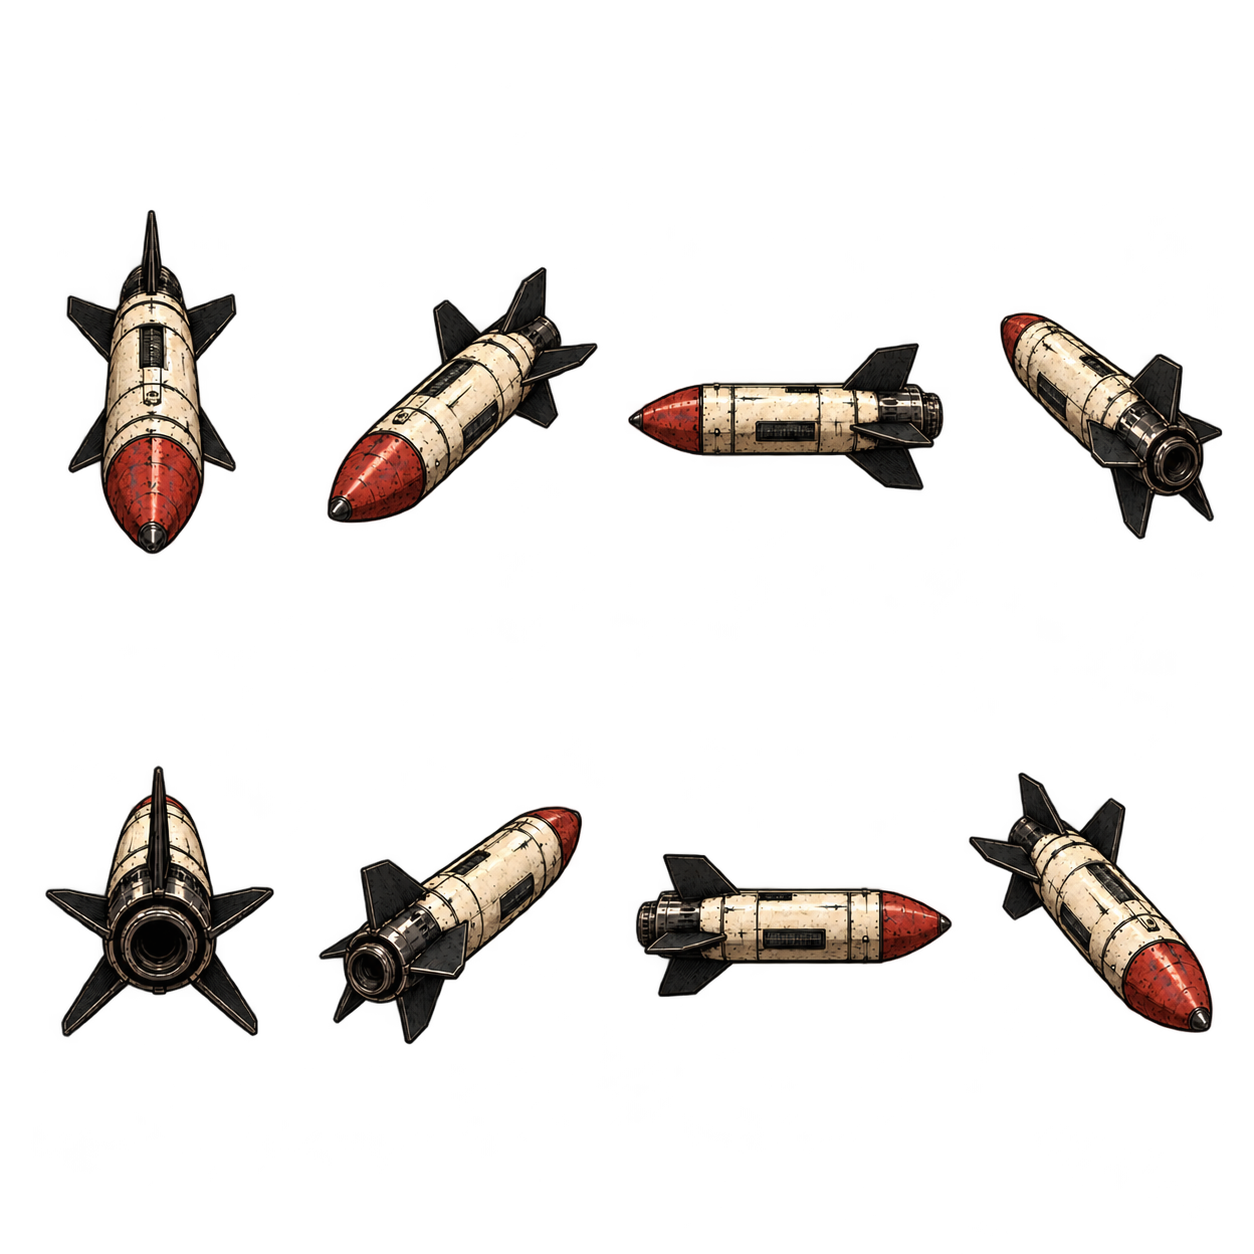
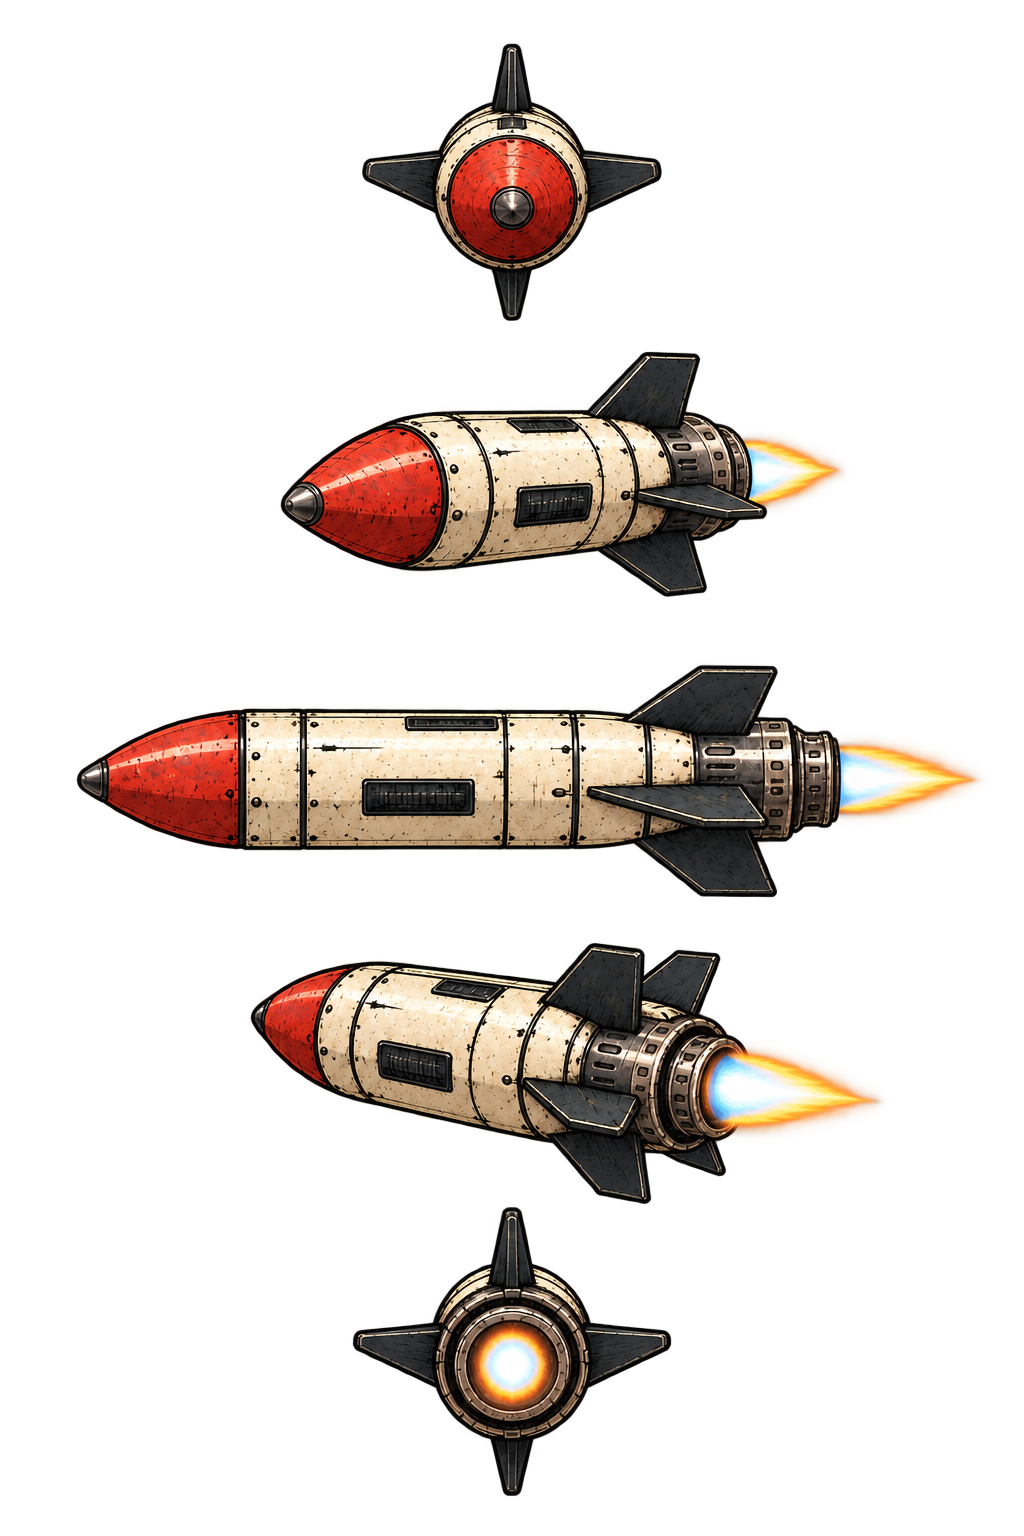
Refresh torpedo sprites with five mirrored facings and baked exhaust

diff --git a/docs/torpedo-sprites.md b/docs/torpedo-sprites.md
@@ -1,0 +1,27 @@
+# Torpedo sprite draft — 23 October 2026
+
+The combat missile uses five near-level drawings: bow, port bow, port, port stern and stern. The remaining three bearings reuse the port rectangles with `mirror_x`. Both the canonical `base.combat-missile` material and the adjacent `missile.sprite.json` describe all eight bearings. Forward vectors describe the displayed nose direction, including the mirrored X direction, because the current velocity-alignment renderer consumes them directly.
+
+The atlas includes a static blue-white/amber exhaust flame; the bow view hides it behind the hull and the stern view shows it end-on. The existing smoke trail and projected-velocity rotation remain. This is an artwork iteration, without new pitch selection, roll simulation, emission maps or exhaust animation. Pivots follow the hull rather than the flame; render scale 1 keeps the broadside hull close to its previous displayed length (about 2.5 metres).
+
+Generated with the built-in image tool, using the previous atlas as the design reference and a first draft as the final edit input. The selected transparent PNG is `content/base/assets/combat/missile-atlas.png`. No programmatic recolouring or background removal was applied.
+
+## Verification
+
+The native production packager accepted the sprite update over the existing bundled base pack. The current verifier accepted that result together with the bundled Test Missions pack: 35 entities, eight maps and 20 consoles. Sprite metadata and this note pass the repository Prettier configuration. The PNG has an alpha channel and the five source regions were inspected. No in-game visual acceptance is claimed; this draft is for the user's flight review.
+
+The full working-tree repack encountered an unrelated `scenario: invalid transition event binding` in concurrent scenario work. The local preview therefore updates only the missile in the existing native bundle, with its previous archive retained at `build/torpedo-preview/base-before-sprites.zip`. Source definitions retain the same missile update for the next full build.
+
+## Final generation prompt
+
+```text
+Use case: precise-object-edit. Edit this fictional spaceship game's torpedo sprite atlas. Keep the cream/red/black inked-comic design and five-view vertical layout, but correct two specific things: true end-on front/back geometry and BAKED-IN ENGINE EXHAUST. This is an isolated nonviolent fictional game asset, no action, targets, people, injury, explosions or real construction information.
+Canvas 1024 x 1536, real transparent background. Exactly FIVE sprites, each centered within one equal-height horizontal cell, with generous completely empty transparent gutters. Entire engine flame must fit inside its own cell. Fixed identical physical scale across all views, same hull and FOUR fins, consistent dimensions. Neutral lighting for horizontal mirroring. No background glow, shadows, labels, text or extra views.
+Camera is now EXACTLY LEVEL with the horizontal torpedo axis, ZERO elevation; NOT an overhead view. Top to bottom:
+1. TRUE FRONT END-ON: camera sits precisely on the longitudinal centerline looking at nose. Circular red conical nose face with a small centered metallic tip, circular ivory shoulder around it, four fins at cardinal directions behind it. NO long body visible above or below, no tail poking up. Short compact symmetric silhouette. The engine and flame are fully hidden behind the body from this angle.
+2. FRONT-LEFT QUARTER: nose toward viewer and left at 45 degrees yaw. Left-pointing axis exactly horizontal in the image. Modest foreshortening. Small jet extends rightward behind rear nozzle, partly occluded by hull as physically appropriate.
+3. EXACT LEFT SIDE PROFILE: red nose at left, rear engine at right. Long horizontal body. Baked short tapered exhaust flame extends to RIGHT from nozzle; bright pale blue-white core with soft amber/orange outer flame. Flame about 20 percent of hull length, crisp painterly sprite edges and transparent outside, no smoke.
+4. REAR-LEFT QUARTER: nose points away from viewer and left, rear nozzle at right towards viewer. Axis horizontal. Baked same compact exhaust emerging from nozzle toward viewer-right, correctly foreshortened.
+5. TRUE REAR END-ON: camera precisely on longitudinal axis behind engine. Symmetric circular dark nozzle with central bright blue-white/amber engine flame seen directly END-ON, four fins at cardinal directions. NO long body visible above or below, no red nose visible, no sideways plume. Compact symmetric silhouette same approximate diameter as front view.
+Do not tilt front/back objects up/down to show body. Do not draw a long vertical missile in either end-on cell. Preserve weathered hand-inked comic rendering but prioritize coherent model geometry and readable small sprites.
+```
